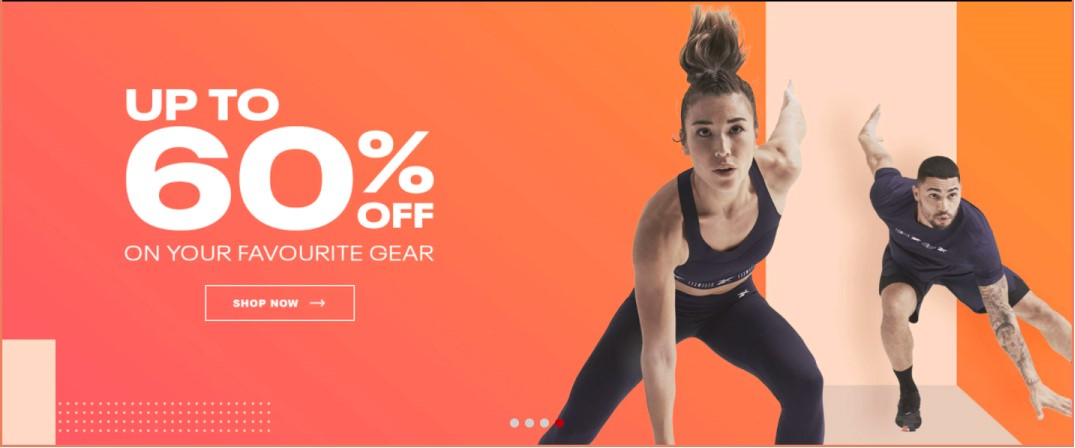
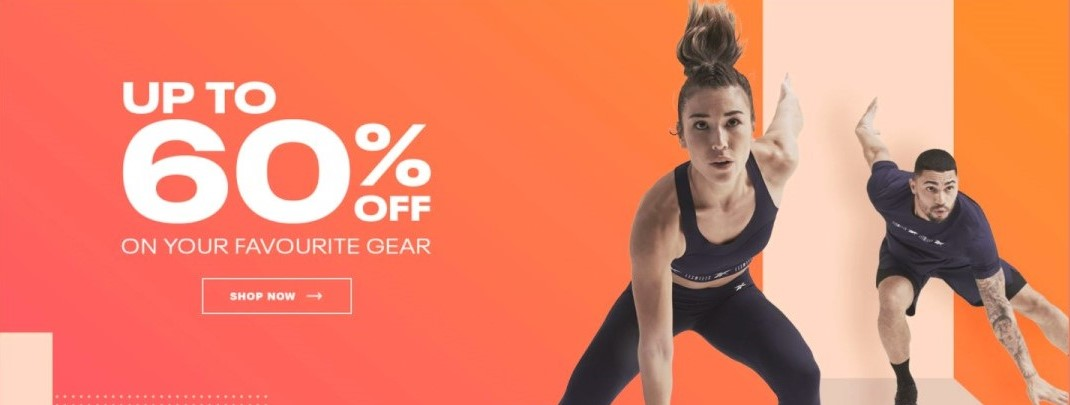
e-commerce-1

Changed region(s): [[0.0, 0.0, 1.0, 1.0], [0.0925, 0.1778, 0.4009, 0.8], [0.8636, 0.1778, 0.8944, 0.2074]]

diff --git a/e-commerce/src/customer/component/HomeCarosel/MainCarosel.jsx b/e-commerce/src/customer/component/HomeCarosel/MainCarosel.jsx
@@ -1,27 +1,33 @@
 import React from 'react';
 import AliceCarousel from 'react-alice-carousel';
+import { CarouselData } from '../../../constant';
 import 'react-alice-carousel/lib/alice-carousel.css';
-import { banner1 } from '../../../assests';
+// import { useHistory } from 'react-router-dom'; // Import useHistory hook
 
-const responsive = {
-    0: { items: banner1 },
-    568: { items: 2 },
-    1024: { items: 3 },
-};
 
-const items = [
-    <div className="item" data-value="1">1</div>,
-    <div className="item" data-value="2">2</div>,
-    <div className="item" data-value="3">3</div>,
-    <div className="item" data-value="4">4</div>,
-    <div className="item" data-value="5">5</div>,
-];
 
-export const Carousel = () => (
-    <AliceCarousel
-        mouseTracking
-        items={items}
-        responsive={responsive}
-        controlsStrategy="alternate"
-    />
-);
+const MainCarosel = () => {
+
+
+    const items = CarouselData.map((img,index)=>(
+      <div  key={img.imageId}  >
+        <img className='cursor-pointer'  src={img.image} alt="carouselImg" style={{ width: '100%', height: '100%', objectFit: 'cover' }} />
+      </div>
+    ))
+
+
+  return (
+    <div>
+            <AliceCarousel
+                mouseTracking
+                items={items}
+                disableButtonsControls
+                autoPlay
+                autoPlayInterval={2000}
+                infinite
+            />
+    </div>
+  )
+}
+
+export default MainCarosel

diff --git a/e-commerce/src/customer/component/Navigation/Navigation.jsx b/e-commerce/src/customer/component/Navigation/Navigation.jsx
@@ -281,7 +281,8 @@ export default function Navigation() {
           Get free delivery on orders over $100
         </p>
 
-        <nav aria-label="Top" className="mx-auto max-w-7xl px-4 sm:px-6 lg:px-8">
+        {/* <nav aria-label="Top" className="mx-auto max-w-7xl px-4 sm:px-6 lg:px-8"> */}
+        <nav aria-label="Top" className="mx-auto px-4 sm:px-6 lg:px-8">
           <div className="border-b border-gray-200">
             <div className="flex h-16 items-center">
               <button

diff --git a/e-commerce/src/constant/index.jsx b/e-commerce/src/constant/index.jsx
@@ -1,0 +1,24 @@
+import { banner1, banner2, banner3, banner4, banner5 } from "../assests";
+
+export const CarouselData = [
+    {
+        imageId:1,
+        image:banner1
+    },
+    {
+        imageId:2,
+        image:banner2
+    },
+    {
+        imageId:3,
+        image:banner3
+    },
+    {
+        imageId:4,
+        image:banner4
+    },
+    {
+        imageId:5,
+        image:banner5
+    }
+]

diff --git a/e-commerce/src/App.js b/e-commerce/src/App.js
@@ -1,11 +1,12 @@
 import './App.css';
-import { Carousel, Navigation } from './customer/component';
+import {  Navigation } from './customer/component';
+import HomePage from './pages/HomePage/HomePage';
 
 function App() {
   return (
     <div className="App">
       <Navigation />
-      <Carousel />
+      <HomePage />
     </div>
   );
 }

diff --git a/e-commerce/src/pages/HomePage/HomePage.jsx b/e-commerce/src/pages/HomePage/HomePage.jsx
@@ -1,0 +1,16 @@
+import React from 'react'
+import MainCarosel from '../../customer/component/HomeCarosel/MainCarosel'
+
+const HomePage = () => {
+  return (
+    <div>
+      <MainCarosel />
+
+      <section>
+        dd
+      </section>
+    </div>
+  )
+}
+
+export default HomePage

diff --git a/e-commerce/src/customer/component/index.jsx b/e-commerce/src/customer/component/index.jsx
@@ -1,6 +1,6 @@
 import Navigation from "./Navigation/Navigation";
-import { Carousel } from "./HomeCarosel/MainCarosel";
+import MainCarosel from "./HomeCarosel/MainCarosel";
 export {
     Navigation,
-    Carousel
+    MainCarosel
 };

diff --git a/e-commerce/src/customer/component/HomeSectionCard/HomeSectionCard.jsx b/e-commerce/src/customer/component/HomeSectionCard/HomeSectionCard.jsx
@@ -1,0 +1,11 @@
+import React from 'react'
+
+const HomeSectionCard = () => {
+  return (
+    <div>
+      
+    </div>
+  )
+}
+
+export default HomeSectionCard
